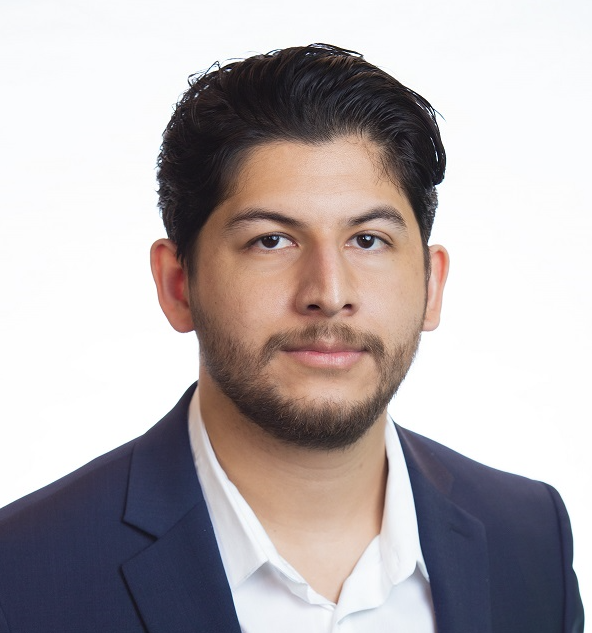
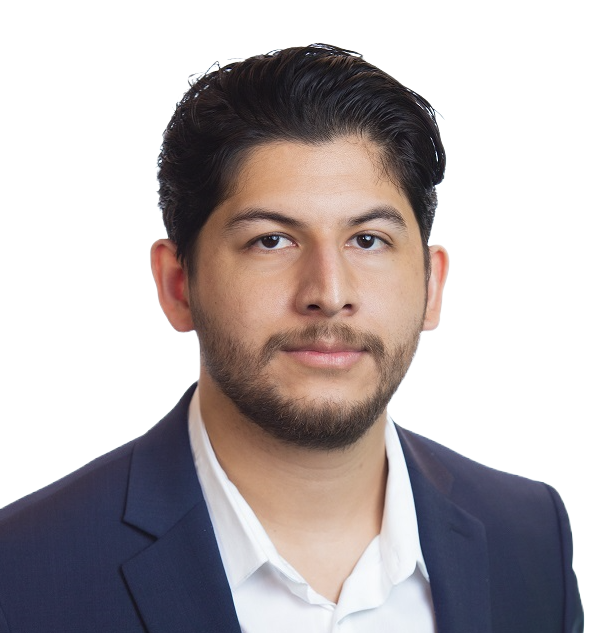
changes to images

diff --git a/frontend/index.html b/frontend/index.html
@@ -53,7 +53,7 @@
           <div class="about-wrapper__image">
             <img
               class="img-fluid"
-              src="./images/cropportrait2.png"
+              src="./images/cropportrait.png"
               alt="Profile Image"
             />
           </div>
